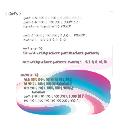
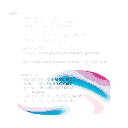
fix: threshold mais agressivo para remover fundo cinza dos ícones

diff --git a/frontend/remove-bg.js b/frontend/remove-bg.js
@@ -26,19 +26,23 @@ async function removeWhiteBackground(filename) {
       .raw()
       .toBuffer({ resolveWithObject: true })
       .then(({ data, info }) => {
-        // Remove pixels brancos/cinzas (RGB > 200)
+        // Remove pixels brancos/cinzas de forma mais agressiva
         for (let i = 0; i < data.length; i += 4) {
           const r = data[i];
           const g = data[i + 1];
           const b = data[i + 2];
           
-          // Se o pixel é branco/cinza claro, torna transparente
-          if (r > 200 && g > 200 && b > 200) {
+          // Se o pixel é branco/cinza claro (mais agressivo)
+          if (r > 150 && g > 150 && b > 150) {
             data[i + 3] = 0; // Alpha = 0 (transparente)
           }
-          // Se o pixel é cinza médio, reduz opacidade
-          else if (r > 150 && g > 150 && b > 150) {
-            data[i + 3] = Math.floor(data[i + 3] * 0.3);
+          // Se o pixel é cinza médio, reduz bastante a opacidade
+          else if (r > 100 && g > 100 && b > 100) {
+            data[i + 3] = Math.floor(data[i + 3] * 0.2);
+          }
+          // Se o pixel é cinza escuro, reduz um pouco
+          else if (r > 70 && g > 70 && b > 70) {
+            data[i + 3] = Math.floor(data[i + 3] * 0.5);
           }
         }
         
